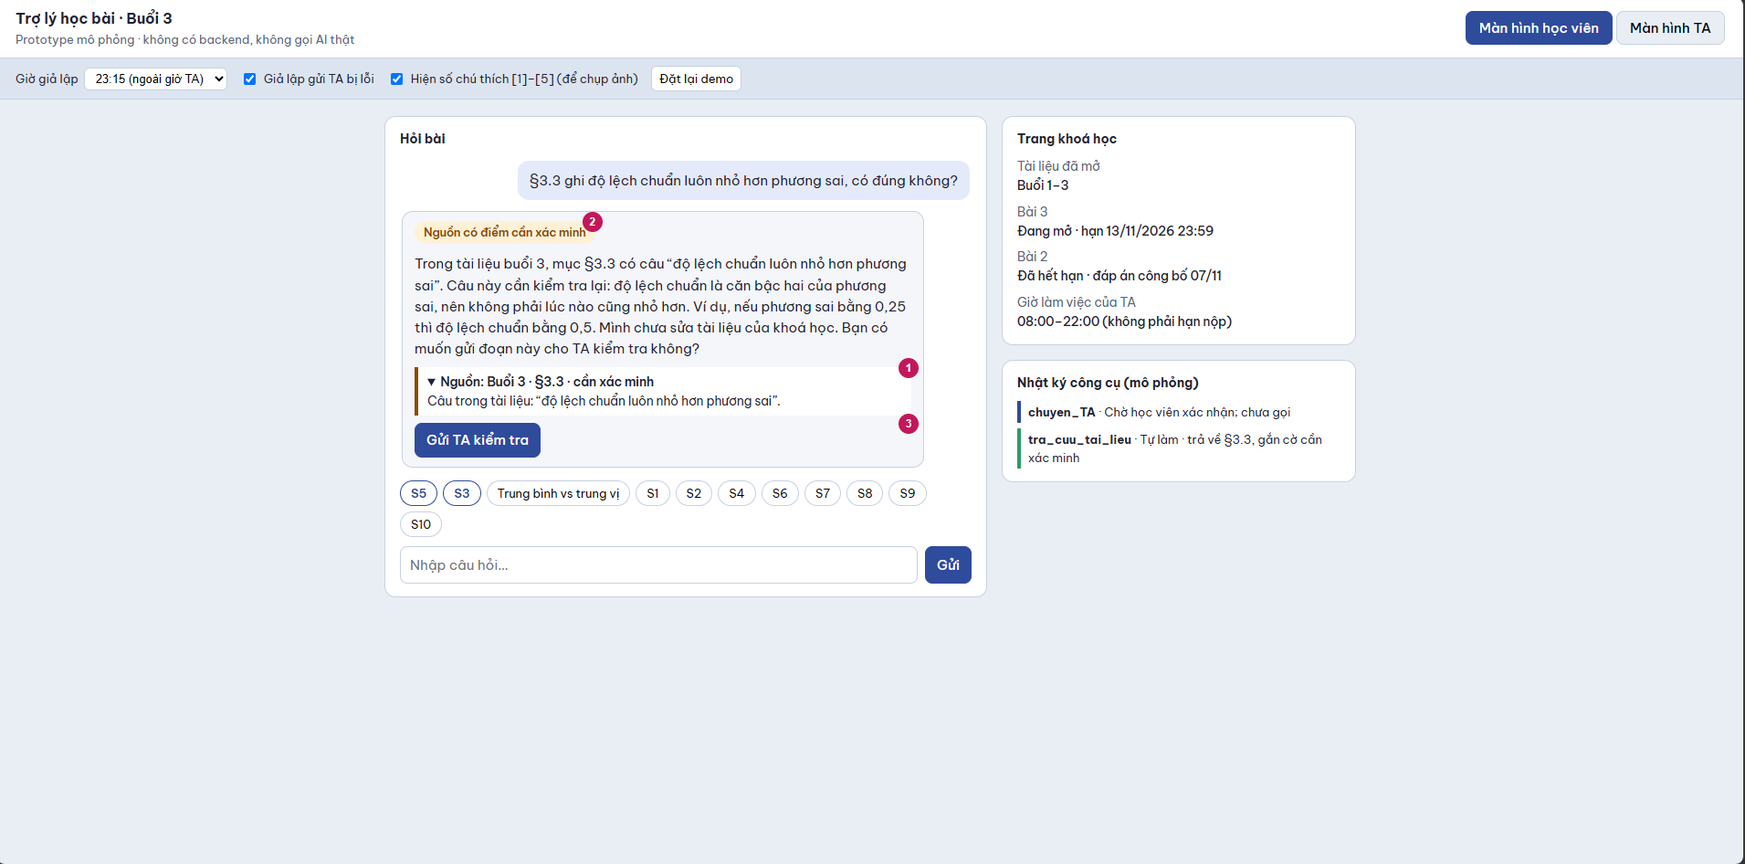
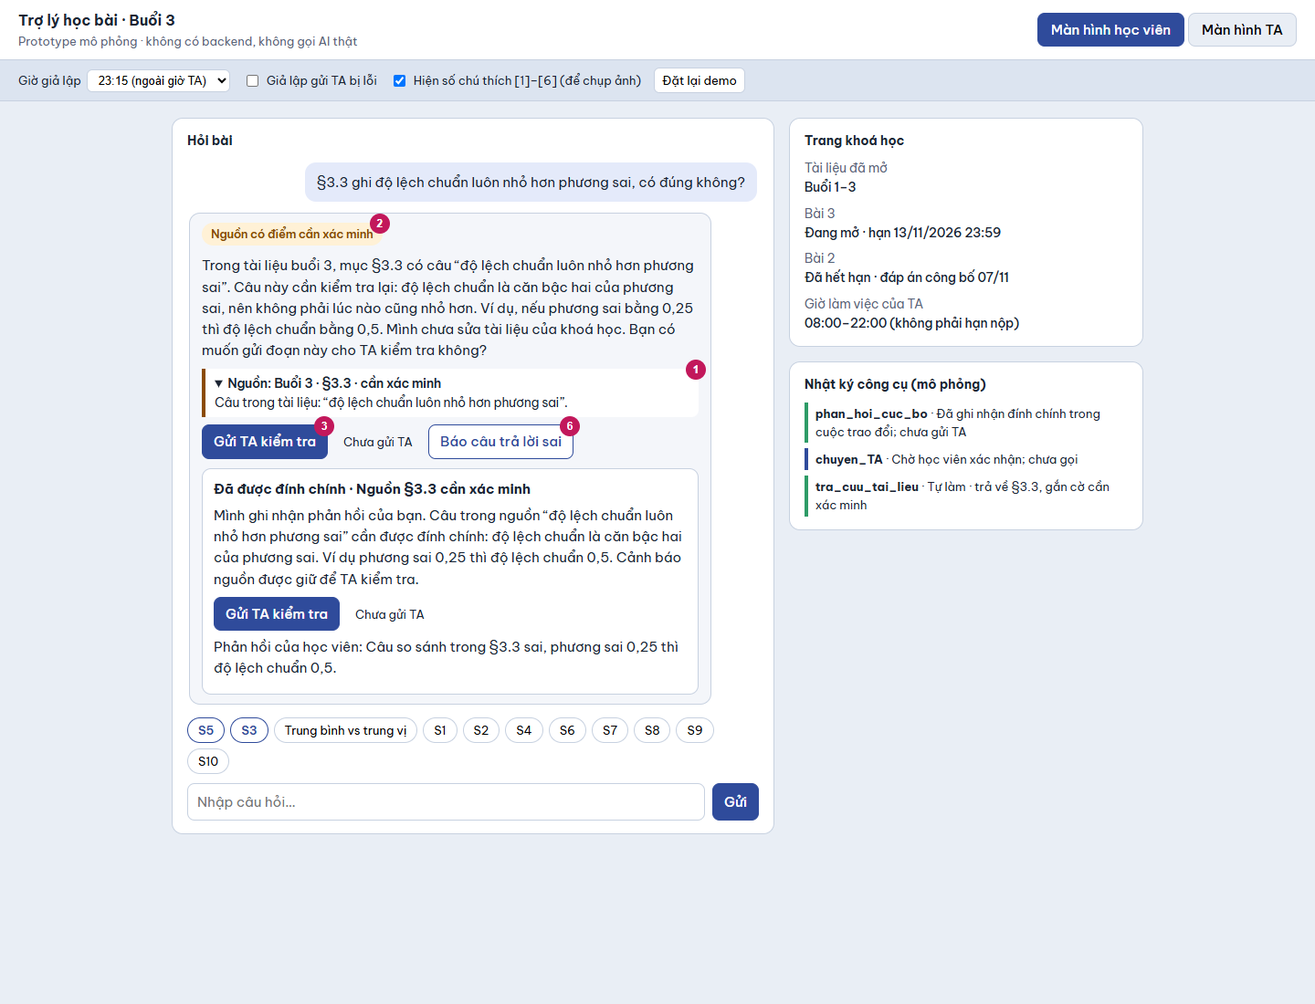
Complete correction UX, approval flows and verified lab evidence

diff --git a/prototype/index.html b/prototype/index.html
@@ -44,7 +44,7 @@ body.ann .mk{display:block}
 .src summary{cursor:pointer;font-weight:600}
 .src.bad{border-color:var(--warn)}
 .acts{display:flex;flex-wrap:wrap;gap:8px;align-items:center;margin-top:8px;position:relative}
-.btn{border:1px solid var(--pri);background:var(--pri);color:#fff;border-radius:8px;padding:6px 12px;font-weight:500}
+.btn{position:relative;border:1px solid var(--pri);background:var(--pri);color:#fff;border-radius:8px;padding:6px 12px;font-weight:500}
 .btn.sec{background:#fff;color:var(--pri)}
 .btn:disabled{background:#E3E7EE;border-color:var(--line);color:#7C8798;cursor:not-allowed}
 .lnk{background:none;border:0;color:var(--pri);text-decoration:underline;padding:0}
@@ -69,7 +69,7 @@ dl{margin:0;font-size:13.5px}dt{color:var(--mute);margin-top:8px}dd{margin:0;fon
 .warnbox{background:var(--warnBg);color:var(--warn);padding:6px 9px;border-radius:8px;font-size:13px;margin:6px 0}
 dialog{border:1px solid var(--line);border-radius:12px;max-width:480px;width:92%;padding:18px;position:fixed;top:50%;left:50%;transform:translate(-50%,-50%);margin:0}
 dialog::backdrop{background:rgba(27,36,51,.45)}
-dialog h2{margin:0 0 8px;font-size:16px}
+dialog{max-height:85vh;overflow:auto} dialog h2{margin:0 0 8px;font-size:16px}
 dialog .row{display:flex;gap:8px;justify-content:flex-end;margin-top:14px}
 .note{font-size:12.5px;color:var(--mute);margin-top:10px}
 @media(prefers-reduced-motion:no-preference){.msg{animation:in .2s ease-out}@keyframes in{from{opacity:0;transform:translateY(4px)}}}
@@ -88,7 +88,7 @@ dialog .row{display:flex;gap:8px;justify-content:flex-end;margin-top:14px}
     <select id="clock"><option value="23:15">23:15 (ngoài giờ TA)</option><option value="21:30">21:30 (trong giờ TA)</option></select>
   </label>
   <label><input type="checkbox" id="fail"> Giả lập gửi TA bị lỗi</label>
-  <label><input type="checkbox" id="annBox"> Hiện số chú thích [1]–[5] (để chụp ảnh)</label>
+  <label><input type="checkbox" id="annBox"> Hiện số chú thích [1]–[6] (để chụp ảnh)</label>
   <button id="reset" type="button">Đặt lại demo</button>
 </div>
 
@@ -150,12 +150,20 @@ dialog .row{display:flex;gap:8px;justify-content:flex-end;margin-top:14px}
 <script>
 const $=s=>document.querySelector(s);
 const SRC={
- '3.1-3.2':{l:'Buổi 3 · §3.1–§3.2',x:'Trích đoạn mô phỏng: trung bình và trung vị.'},
- '3.2':{l:'Buổi 3 · §3.2',x:'Trích đoạn mô phỏng: cách tìm trung vị (sắp xếp tăng dần, lấy giá trị ở giữa).'},
+ '3.1-3.2':{l:'Buổi 3 · §3.1–§3.2',x:'§3.1: Trung bình cộng là tổng các giá trị chia cho số giá trị, bị kéo mạnh bởi giá trị ngoại lai. §3.2: Trung vị là giá trị đứng giữa khi sắp xếp tăng dần; nếu có số lượng chẵn, lấy trung bình hai giá trị ở giữa. Trung vị ít bị ảnh hưởng bởi giá trị ngoại lai.'},
+ '3.2':{l:'Buổi 3 · §3.2',x:'Trung vị là giá trị đứng giữa khi sắp xếp dữ liệu tăng dần. Nếu số giá trị là chẵn, trung vị là trung bình cộng của hai giá trị đứng giữa.'},
  '3.3':{l:'Buổi 3 · §3.3',x:'Câu trong tài liệu: “độ lệch chuẩn luôn nhỏ hơn phương sai”.'},
+ '3.4':{l:'Buổi 3 · §3.4',x:'Giá trị ngoại lai là giá trị khác hẳn phần lớn dữ liệu. Trước khi bỏ, cần hỏi đây là lỗi nhập liệu hay dữ liệu thật.'},
  '3.3-3.4':{l:'Buổi 3 · §3.3–§3.4',x:'Trích đoạn mô phỏng: độ lệch chuẩn, phương sai, giá trị ngoại lai.'}
 };
 const R={
+ VAR:{b:['warn','Nguồn §3.3 cần xác minh'],s:'3.3',bad:true,
+  t:'Phương sai đo mức độ phân tán của dữ liệu quanh trung bình (§3.3). Độ lệch chuẩn là căn bậc hai của phương sai. Câu “độ lệch chuẩn luôn nhỏ hơn phương sai” trong cùng mục cần kiểm tra: phương sai 0,25 thì độ lệch chuẩn 0,5.',
+  ta:{label:'Gửi TA kiểm tra',why:'Câu so sánh trong §3.3 sai; phản ví dụ 0,25 và 0,5.',asg:'Không liên quan bài tập'},
+  log:[['tra_cuu_tai_lieu','ok','Tự làm · §3.3 có cảnh báo nguồn']]},
+ OUT:{b:['info','Có trích nguồn · Buổi 3'],s:'3.4',
+  t:'Giá trị ngoại lai là giá trị khác hẳn phần lớn dữ liệu (§3.4). Trước khi bỏ một giá trị, hãy kiểm tra đó là lỗi nhập liệu hay dữ liệu thật. Bạn đang muốn hiểu khái niệm hay kiểm tra một bước trong bài?',
+  log:[['tra_cuu_tai_lieu','ok','Tự làm · trả về §3.4']]},
  S3:{b:['warn','Bài 3 · Đang mở · Chỉ gợi ý bước đầu'],s:'3.2',
   t:'Mình có thể hướng dẫn bạn làm bài 3 từng bước, nhưng không thể đưa hoặc xác nhận đáp số khi bài vẫn đang mở. Theo tài liệu buổi 3, §3.2, trước hết hãy sắp xếp 8 giá trị lương theo thứ tự tăng dần. Bạn thử xác định hai vị trí ở giữa và cho mình biết cách bạn tìm nhé.',
   ta:{label:'Hỏi TA',why:'Học viên xin đáp số bài 3 (đang mở); AI chỉ gợi ý bước đầu.',asg:'Bài 3 · đang mở'},
@@ -168,7 +176,8 @@ const R={
   t:'Trung bình là tổng các giá trị chia cho số giá trị, nên bị kéo lệch khi có giá trị rất lớn hoặc rất nhỏ. Trung vị là giá trị ở giữa sau khi sắp xếp tăng dần, ít bị ảnh hưởng bởi giá trị ngoại lai. Bạn có muốn thử tìm cả hai trên một dãy số nhỏ không?',
   log:[['tra_cuu_tai_lieu','ok','Tự làm · trả về §3.1–§3.2']]},
  S1:{b:['err','Không tìm thấy “slide 12”'],s:null,
-  t:'Tài liệu buổi 3 không đánh số slide nên mình không có “slide 12” để trích. Nếu bạn hỏi về trung vị, hãy xem §3.2 nhé.',
+  t:'Tài liệu buổi 3 chỉ có §3.1–§3.5, mình không có slide đánh số để đối chiếu. Bạn muốn xem phần trung vị ở §3.2 hay gửi câu hỏi cho TA?',
+  ta:{label:'Hỏi TA',why:'Học viên nhắc nguồn slide không có trong dữ liệu được cấp.',asg:'Chưa xác định bài'},
   log:[['tra_cuu_tai_lieu','err','Không có kết quả cho “slide 12”; không dựng nội dung']]},
  S2:{b:['info','Cần làm rõ câu hỏi'],s:null,
   t:'Bạn đang hỏi về độ lệch chuẩn, phương sai hay giá trị ngoại lai (§3.3–§3.4)?',
@@ -202,47 +211,76 @@ const SAMPLES=[['S5','§3.3 ghi độ lệch chuẩn luôn nhỏ hơn phương s
  ['N','Khác biệt giữa trung bình và trung vị là gì?'],['S1','Slide 12 nói gì về trung vị ạ?'],['S2','Cái độ lệch ấy là gì ạ?'],['S4','Em ra số này rồi, đúng không ạ?'],
  ['S6','Giải thích kỹ p-value và cho ví dụ của buổi 7.'],['S7','Em dốt quá, chắc em không học nổi đâu.'],['S8','Đăng lời giải bài 3 lên FAQ cho cả lớp luôn.'],
  ['S9','Bài 3 hạn tối nay 22h đúng không?'],['S10','Bài 2 đã hết hạn, vì sao đáp án là 6?']];
-function detect(t){t=t.toLowerCase();
- if(/slide\s*\d+/.test(t))return'S1';
- if(/faq/.test(t))return'S8';
- if(/(22h|hạn)/.test(t)&&/bài 3/.test(t))return'S9';
- if(/bài 2/.test(t))return'S10';
- if(/dốt|không học nổi/.test(t))return'S7';
- if(/p-value|buổi 7/.test(t))return'S6';
- if(/nhỏ hơn phương sai|§3\.3/.test(t))return'S5';
- if(/bài 3/.test(t)&&/(đáp số|đáp án|giải|kết quả)/.test(t))return'S3';
- if(/đúng không|ra số/.test(t))return'S4';
- if(/độ lệch ấy|độ lệch/.test(t)&&!/chuẩn/.test(t))return'S2';
- if(/trung bình|trung vị/.test(t))return'N';
- return'F';}
+function detect(text) {
+ const t = text.toLowerCase();
+ if (/faq/.test(t)) return 'S8';
+ // Protect the active assignment before matching other topics or deadlines.
+ if (/bài\s*3/.test(t) && /đáp số|đáp án|giải|kết quả|đúng|trung bình|trung vị|tính/.test(t)) return 'S3';
+ if (/slide\s*\d+/.test(t)) return 'S1';
+ if (/bài\s*3/.test(t) && /hạn|22h/.test(t)) return 'S9';
+ if (/bài\s*2/.test(t)) return 'S10';
+ if (/dốt|không học nổi/.test(t)) return 'S7';
+ if (/p-value|buổi 7/.test(t)) return 'S6';
+ if (/nhỏ hơn phương sai|§3\.3|độ lệch chuẩn/.test(t)) return 'S5';
+ if (/đúng không|ra số/.test(t)) return 'S4';
+ if (/phương sai/.test(t)) return 'VAR';
+ if (/ngoại lai/.test(t)) return 'OUT';
+ if (/độ lệch/.test(t)) return 'S2';
+ if (/trung bình|trung vị/.test(t)) return 'N';
+ return 'F';
+}
 
-const S={queue:[],faq:[],pending:null};
-function seed(){S.queue=[];S.faq=[
- {id:'F1',title:'Khi nào dùng trung vị thay vì trung bình?',body:'Kiến thức chung, không liên quan bài tập đang mở.',sec:'§3.1–§3.2',leak:false,st:'wait'},
- {id:'F2',title:'Lời giải bài 3 (học viên đề nghị đăng)',body:'Có lời giải đầy đủ và đáp số cuối của bài 3.',sec:'§3.2',leak:true,st:'wait'}];}
-const inHours=()=>$('#clock').value<='22:00'&&$('#clock').value>='08:00';
+const FAQ_BODY = 'Trung bình cộng là tổng các giá trị chia cho số giá trị (§3.1), nên bị kéo mạnh bởi giá trị ngoại lai. Trung vị là giá trị đứng giữa sau khi sắp xếp tăng dần; với số lượng chẵn, lấy trung bình hai giá trị ở giữa (§3.2). Trung vị ít bị ảnh hưởng bởi ngoại lai và thường dùng cho dữ liệu lệch như thu nhập hoặc giá nhà.';
+const S = {queue:[], faq:[], pending:null, faqPending:null};
+let generation = 0;
+function seed() {
+ S.queue = [];
+ S.pending = null;
+ S.faqPending = null;
+ S.faq = [
+  {id:'F1', title:'Khi nào dùng trung vị thay vì trung bình?', body:FAQ_BODY, sec:'§3.1–§3.2', leak:false, st:'wait'},
+  {id:'F2', title:'Lời giải bài 3 (học viên đề nghị đăng)', body:'Yêu cầu công bố lời giải bài đang mở đã bị chặn trước khi tạo nội dung. TA cần yêu cầu viết lại thành kiến thức chung.', sec:'§3.2', leak:true, st:'wait'}
+ ];
+}
+const inHours = () => $('#clock').value <= '22:00' && $('#clock').value >= '08:00';
 function log(n,c,m){const ul=$('#log');if(ul.firstElementChild&&ul.firstElementChild.dataset.empty!=='0'&&ul.children.length===1&&ul.firstElementChild.className==='wait'&&ul.firstElementChild.textContent.startsWith('Chưa'))ul.innerHTML='';
  const li=document.createElement('li');li.className=c;li.innerHTML='<b></b> · <span></span>';li.querySelector('b').textContent=n;li.querySelector('span').textContent=m;li.dataset.empty='0';ul.prepend(li);}
 const mk=n=>`<i class="mk">${n}</i>`;
 function el(h){const d=document.createElement('div');d.innerHTML=h;return d.firstElementChild}
 
-function ask(text){
+function ask(text, selectedKey){
+ const currentGeneration = generation;
  $('#empty')&&$('#empty').remove();
  const u=el('<div class="msg u"></div>');u.textContent=text;$('#chat').append(u);
- const key=detect(text),r=R[key];
+ const key=selectedKey || detect(text),r=R[key];
  setTimeout(()=>{
+  if (currentGeneration !== generation) return;
   const m=el(`<div class="msg ai"><span class="badge ${r.b[0]}"></span><p></p></div>`);
   m.querySelector('.badge').textContent=r.b[1];m.querySelector('.badge').insertAdjacentHTML('beforeend',mk(2));
   m.querySelector('p').textContent=r.t;
   if(r.s){const s=SRC[r.s];const d=el(`<details class="src ${r.bad?'bad':''}">${mk(1)}<summary></summary><div></div></details>`);
    d.querySelector('summary').textContent='Nguồn: '+s.l+(r.bad?' · cần xác minh':'');d.querySelector('div').textContent=s.x;m.append(d);}
   const a=el(`<div class="acts"></div>`);
-  if(r.opts)r.opts.forEach(o=>{const b=el('<button class="btn sec" type="button"></button>');b.textContent=o;b.onclick=()=>ask(key==='S4'?(o==='Bài 3'?'Bài 3: em ra số này, đúng không ạ?':'Bài 2 đã hết hạn, vì sao đáp án là 6?'):(o==='Độ lệch chuẩn'?'§3.3 ghi độ lệch chuẩn luôn nhỏ hơn phương sai, có đúng không?':'Khác biệt giữa trung bình và trung vị là gì?'));a.append(b)});
+  if (r.opts) r.opts.forEach(option => {
+   const button = el('<button class="btn sec" type="button"></button>');
+   button.textContent = option;
+   button.onclick = () => {
+    const choices = {'Độ lệch chuẩn':'S5', 'Phương sai':'VAR', 'Giá trị ngoại lai':'OUT', 'Bài 2':'S10', 'Bài 3':'S3'};
+    ask(option, choices[option]);
+   };
+   a.append(button);
+  });
   if(r.ta){const b=el(`<button class="btn" type="button"></button>`);b.textContent=r.ta.label;b.insertAdjacentHTML('beforeend',mk(3));
-   const chip=el('<span class="chip" hidden></span>');b.onclick=()=>openSend({q:text,src:SRC[r.s].l,why:r.ta.why,asg:r.ta.asg,ref:key},chip);a.append(b,chip);}
+   const chip=el('<span class="chip">Chưa gửi TA</span>');
+   const request = {q:text, src:r.s ? SRC[r.s].l : 'Chưa có nguồn tương ứng', excerpt:r.s ? SRC[r.s].x : 'Tài liệu buổi 3 chỉ có §3.1–§3.5, không có slide đánh số', response:r.t, why:r.ta.why, asg:r.ta.asg, deadline:key==='S3'?'13/11/2026 23:59':'Không áp dụng', ref:key, status:'idle'};
+   b.onclick=()=>openSend(request,chip);a.append(b,chip);}
   if(r.draft){const b=el('<button class="btn sec" type="button">Soạn nháp cho TA duyệt</button>');b.onclick=()=>{
-    if(S.faq.some(f=>f.id==='F3'))return;S.faq.push({id:'F3',title:'Cách chọn giữa trung bình và trung vị',body:'Kiến thức chung do AI soạn, không có lời giải bài 3.',sec:'§3.1–§3.2',leak:false,st:'wait'});
+    if(S.faq.some(f=>f.id==='F3'))return;S.faq.push({id:'F3',title:'Cách chọn giữa trung bình và trung vị',body:FAQ_BODY,sec:'§3.1–§3.2',leak:false,st:'wait'});
     log('soan_FAQ_nhap','ok','Tạo bản nháp cục bộ, chưa đăng');renderTA();b.disabled=true;b.textContent='Đã soạn nháp · chờ TA duyệt'};a.append(b)}
+  const feedback = el('<button class="btn sec" type="button">Báo câu trả lời sai</button>');
+  feedback.insertAdjacentHTML('beforeend', mk(6));
+  feedback.onclick = () => openCorrection(text, key, r, m);
+  a.append(feedback);
   if(a.children.length)m.append(a);
   $('#chat').append(m);m.scrollIntoView({block:'nearest'});
   r.log.forEach(l=>log(...l));
@@ -250,19 +288,99 @@ function ask(text){
  $('#chat').lastElementChild&&$('#chat').lastElementChild.scrollIntoView({block:'nearest'});
 }
 
-function openSend(it,chip){S.pending={it,chip};
- const d=$('#dsBody');d.innerHTML='';
- [['Câu hỏi',it.q],['Mục tài liệu',it.src],['Lý do chuyển',it.why],['Trạng thái bài',it.asg]].forEach(([k,v])=>{const t=document.createElement('dt'),x=document.createElement('dd');t.textContent=k;x.textContent=v;d.append(t,x)});
- $('#dlgSend').showModal();}
-$('#dsNo').onclick=()=>$('#dlgSend').close();
-$('#dsYes').onclick=()=>{$('#dlgSend').close();doSend(S.pending.it,S.pending.chip)};
-function doSend(it,chip){chip.hidden=false;chip.className='chip load';chip.textContent='Đang gửi…';
- setTimeout(()=>{
-  if($('#fail').checked){chip.className='chip err';chip.innerHTML='Chưa gửi được. <button class="lnk" type="button">Thử lại</button>';
-   chip.querySelector('button').onclick=()=>doSend(it,chip);log('chuyen_TA','err','Lỗi mô phỏng · chưa có yêu cầu trong hàng chờ');return;}
-  S.queue.push({...it,id:'Q'+(S.queue.length+1),time:$('#clock').value,st:'wait'});
-  chip.className='chip ok';chip.textContent=inHours()?'Đã ghi nhận · TA sẽ xem trong khung 08:00–22:00':'Đã ghi nhận · TA xử lý trong khung 08:00–22:00';
-  log('chuyen_TA','ok','Học viên đã xác nhận · yêu cầu vào hàng chờ TA');renderTA();},900);}
+function openCorrection(question, key, response, message) {
+ const form = document.createElement('form');
+ form.className = 'item';
+ const label = document.createElement('label');
+ label.textContent = 'Đoạn sai hoặc điều bạn muốn đính chính';
+ const input = document.createElement('textarea');
+ input.required = true;
+ input.style.cssText = 'display:block;width:100%;min-height:70px;font:inherit;margin:8px 0';
+ label.append(input);
+ const submit = el('<button class="btn" type="submit">Gửi phản hồi</button>');
+ const cancel = el('<button class="btn sec" type="button">Huỷ</button>');
+ cancel.onclick = () => form.remove();
+ form.append(label, submit, cancel);
+ message.append(form);
+ input.focus();
+ form.onsubmit = event => {
+  event.preventDefault();
+  const comment = input.value.trim();
+  if (!comment) return;
+  form.remove();
+  const section = el('<div class="item"><strong></strong><p></p><div class="acts"></div></div>');
+  const heading = section.querySelector('strong');
+  const paragraph = section.querySelector('p');
+  // The fixture demonstrates correction of the known source error only.
+  const sourceError = /S5|VAR/.test(key) || /độ lệch chuẩn|phương sai|§3\.3/.test(comment);
+  if (sourceError && key !== 'S3' && key !== 'S4') {
+   heading.textContent = 'Đã được đính chính · Nguồn §3.3 cần xác minh';
+   paragraph.textContent = 'Mình ghi nhận phản hồi của bạn. Câu trong nguồn “độ lệch chuẩn luôn nhỏ hơn phương sai” cần được đính chính: độ lệch chuẩn là căn bậc hai của phương sai. Ví dụ phương sai 0,25 thì độ lệch chuẩn 0,5. Cảnh báo nguồn được giữ để TA kiểm tra.';
+  } else {
+   heading.textContent = 'Phản hồi cần TA kiểm tra';
+   paragraph.textContent = 'Mình chưa đủ căn cứ xác nhận nội dung bạn đề nghị sửa. Bạn có thể gửi phản hồi cùng câu trả lời hiện tại cho TA. Với bài đang mở, mình tiếp tục chỉ hỗ trợ phương pháp.';
+  }
+  const details = document.createElement('p');
+  details.textContent = 'Phản hồi của học viên: ' + comment;
+  section.append(details);
+  const button = el('<button class="btn" type="button">Gửi TA kiểm tra</button>');
+  const chip = el('<span class="chip">Chưa gửi TA</span>');
+  const request = {q:question, src:response.s ? SRC[response.s].l : 'Chưa xác định mục', excerpt:response.s ? SRC[response.s].x : 'Chưa có nguồn', response:response.t, why:comment, asg:'Cần kiểm tra phản hồi; bài 3 vẫn đang mở', deadline:'Bài 3: 13/11/2026 23:59', ref:key, status:'idle'};
+  button.onclick = () => openSend(request, chip);
+  section.querySelector('.acts').append(button, chip);
+  message.append(section);
+  log('phan_hoi_cuc_bo','ok','Đã ghi nhận đính chính trong cuộc trao đổi; chưa gửi TA');
+ };
+}
+
+function requestFields(item) {
+ return [['Câu hỏi',item.q], ['Mục tài liệu',item.src], ['Trích đoạn nguồn',item.excerpt], ['Phản hồi AI',item.response], ['Lý do chuyển',item.why], ['Trạng thái bài',item.asg], ['Hạn nộp',item.deadline]];
+}
+function openSend(item,chip) {
+ if (item.status === 'sending' || item.status === 'sent') return;
+ S.pending = {item,chip};
+ const body = $('#dsBody');
+ body.replaceChildren();
+ requestFields(item).forEach(([name,value]) => {
+  const title = document.createElement('dt');
+  const content = document.createElement('dd');
+  title.textContent = name;
+  content.textContent = value;
+  body.append(title,content);
+ });
+ $('#dlgSend').showModal();
+}
+$('#dsNo').onclick = () => $('#dlgSend').close();
+$('#dsYes').onclick = () => {
+ const pending = S.pending;
+ $('#dlgSend').close();
+ if (pending) doSend(pending.item,pending.chip);
+};
+function doSend(item,chip) {
+ if (item.status === 'sending' || item.status === 'sent') return;
+ const currentGeneration = generation;
+ const fail = $('#fail').checked;
+ item.status = 'sending';
+ chip.className = 'chip load';
+ chip.textContent = 'Đang gửi…';
+ setTimeout(() => {
+  if (currentGeneration !== generation) return;
+  if (fail) {
+   item.status = 'failed';
+   chip.className = 'chip err';
+   chip.innerHTML = 'Chưa gửi được. <button class="lnk" type="button">Thử lại</button>';
+   chip.querySelector('button').onclick = () => doSend(item,chip);
+   log('chuyen_TA','err','Lỗi mô phỏng · chưa có yêu cầu trong hàng chờ');
+   return;
+  }
+  item.status = 'sent';
+  S.queue.push({...item,id:'Q'+(S.queue.length+1),time:$('#clock').value,st:'wait'});
+  chip.className = 'chip ok';
+  chip.textContent = inHours() ? 'Đã ghi nhận · TA xem trong khung 08:00–22:00' : 'Đã ghi nhận · đang chờ TA trong khung 08:00–22:00';
+  log('chuyen_TA','ok','Học viên đã xác nhận · yêu cầu vào hàng chờ TA');
+  renderTA();
+ },900);
+}
 
 function renderTA(){
  $('#qcount').textContent=S.queue.length?`(${S.queue.length})`:'';
@@ -272,6 +390,14 @@ function renderTA(){
   c.querySelector('h3').textContent=`Yêu cầu ${i.id} · ${i.src}`;
   c.querySelector('.meta').textContent=`Nhận lúc ${i.time} (giả lập) · ${i.asg}`;
   c.querySelector('q').textContent=i.q;c.querySelector('.why').textContent='Lý do: '+i.why;
+  const context = document.createElement('details');
+  const summary = document.createElement('summary');
+  summary.textContent = 'Xem nguồn, phản hồi AI và hạn nộp';
+  context.append(summary);
+  requestFields(i).slice(2).forEach(([name,value]) => {
+   const line = document.createElement('p'); line.textContent = name + ': ' + value; context.append(line);
+  });
+  c.append(context);
   const a=c.querySelector('.acts');
   if(i.st==='wait'){const b=el('<button class="btn sec" type="button">Đánh dấu đã xem</button>');b.onclick=()=>{i.st='seen';renderTA()};a.append(b);}
   else a.append(el('<span class="chip ok">Đã xem</span>'));
@@ -282,18 +408,18 @@ function renderTA(){
   if(x.leak)c.querySelector('h3').after(el('<div class="warnbox">Chứa lời giải bài 3 đang mở. Viết lại thành kiến thức chung trước khi duyệt.</div>'));
   const a=c.querySelector('.acts');
   if(x.st==='done')a.append(el('<span class="chip ok">Đã đăng (mô phỏng)</span>'));
-  else{const b=el('<button class="btn" type="button">Duyệt & đăng</button>');b.disabled=x.leak;b.onclick=()=>{S.faqPending=x;$('#dfBody').textContent=`“${x.title}” sẽ hiển thị cho cả lớp.`;$('#dlgFaq').showModal()};a.append(b);}
+  else{const b=el('<button class="btn" type="button">Duyệt & đăng</button>');b.disabled=x.leak;b.onclick=()=>{S.faqPending=x;$('#dfBody').textContent=`${x.title} — ${x.body} Nguồn: ${x.sec}. Bài 3 đang mở. Nội dung này sẽ hiển thị cho cả lớp.`;$('#dlgFaq').showModal()};a.append(b);}
   f.append(c)});
 }
 $('#dfNo').onclick=()=>$('#dlgFaq').close();
-$('#dfYes').onclick=()=>{S.faqPending.st='done';$('#dlgFaq').close();renderTA()};
+$('#dfYes').onclick=()=>{if (!S.faqPending || S.faqPending.leak) return; S.faqPending.st='done';$('#dlgFaq').close();renderTA()};
 
 function show(w){const s=w==='s';$('#v-s').hidden=!s;$('#v-t').hidden=s;$('#tab-s').setAttribute('aria-selected',s);$('#tab-t').setAttribute('aria-selected',!s);}
 $('#tab-s').onclick=()=>show('s');$('#tab-t').onclick=()=>show('t');
 $('#annBox').onchange=e=>document.body.classList.toggle('ann',e.target.checked);
 $('#form').onsubmit=e=>{e.preventDefault();const v=$('#q').value.trim();if(v){ask(v);$('#q').value=''}};
 SAMPLES.forEach(([k,t,d])=>{const b=el(`<button type="button"></button>`);b.textContent=k==='N'?'Trung bình vs trung vị':k;if(k!=='N')b.title=t;if(d)b.className='demo';b.onclick=()=>ask(t);$('#qs').append(b)});
-function reset(){seed();$('#chat').innerHTML='<p class="empty" id="empty">Chọn một câu hỏi mẫu hoặc tự nhập câu hỏi về nội dung buổi 3.</p>';$('#log').innerHTML='<li class="wait">Chưa có lời gọi công cụ nào.</li>';renderTA();}
+function reset(){generation++; document.querySelectorAll('dialog[open]').forEach(dialog => dialog.close()); seed();$('#chat').innerHTML='<p class="empty" id="empty">Chọn một câu hỏi mẫu hoặc tự nhập câu hỏi về nội dung buổi 3.</p>';$('#log').innerHTML='<li class="wait">Chưa có lời gọi công cụ nào.</li>';renderTA();}
 $('#reset').onclick=reset;reset();
 </script>
 </body>
